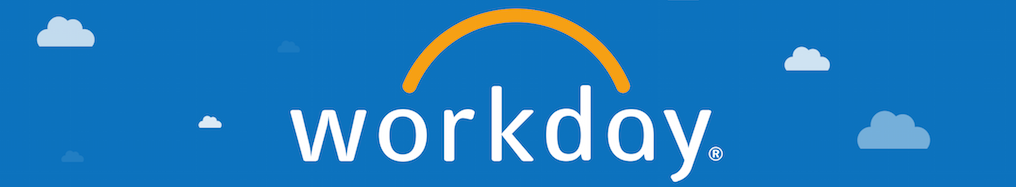
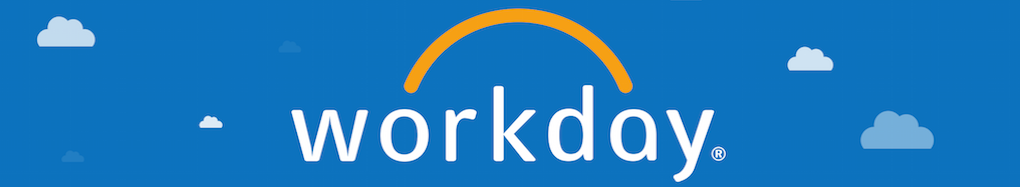
more responsive work

Changed region(s): [[0.5797, 0.2941, 0.6102, 0.3209], [0.3356, 0.6952, 0.3661, 0.7219]]

diff --git a/index.html b/index.html
@@ -30,9 +30,8 @@ title: workday global hackathon 2016
         </div>
     </div>         
     <div class="row">
-        <div class="span8">       
-          <div class="fma">
-          </div>
+        <div class="span12">     
+             <img class = "fma" src="images/bg.png"/>
         </div>                     
     </div>  
     

diff --git a/_includes/top.html b/_includes/top.html
@@ -38,9 +38,6 @@
         }  
     .fma
         {
-      background-image:url('images/bg.png'); 
-        width: 1020px;
-        height: 187px; 
         font-size: 32px;
         font-weight: bold;
         color: #5A5B5D;
